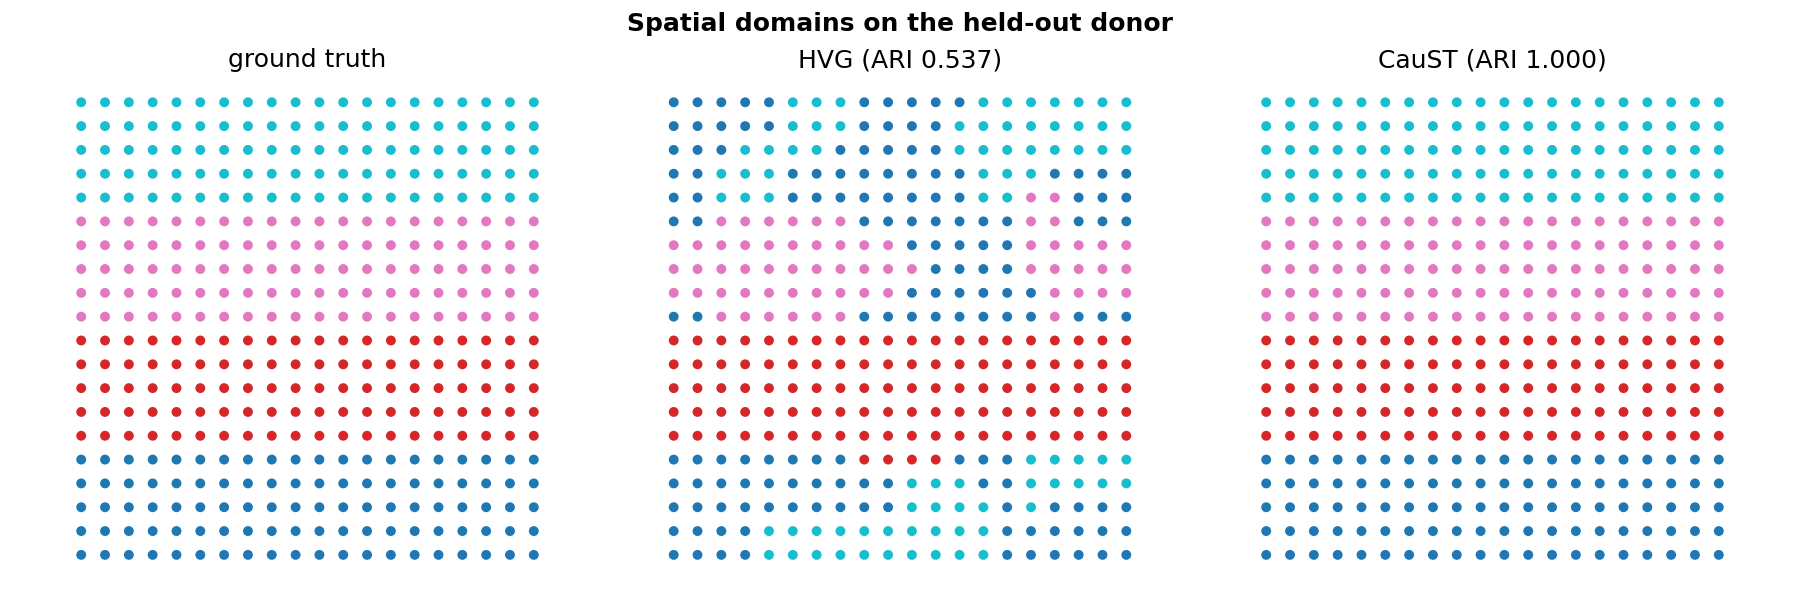
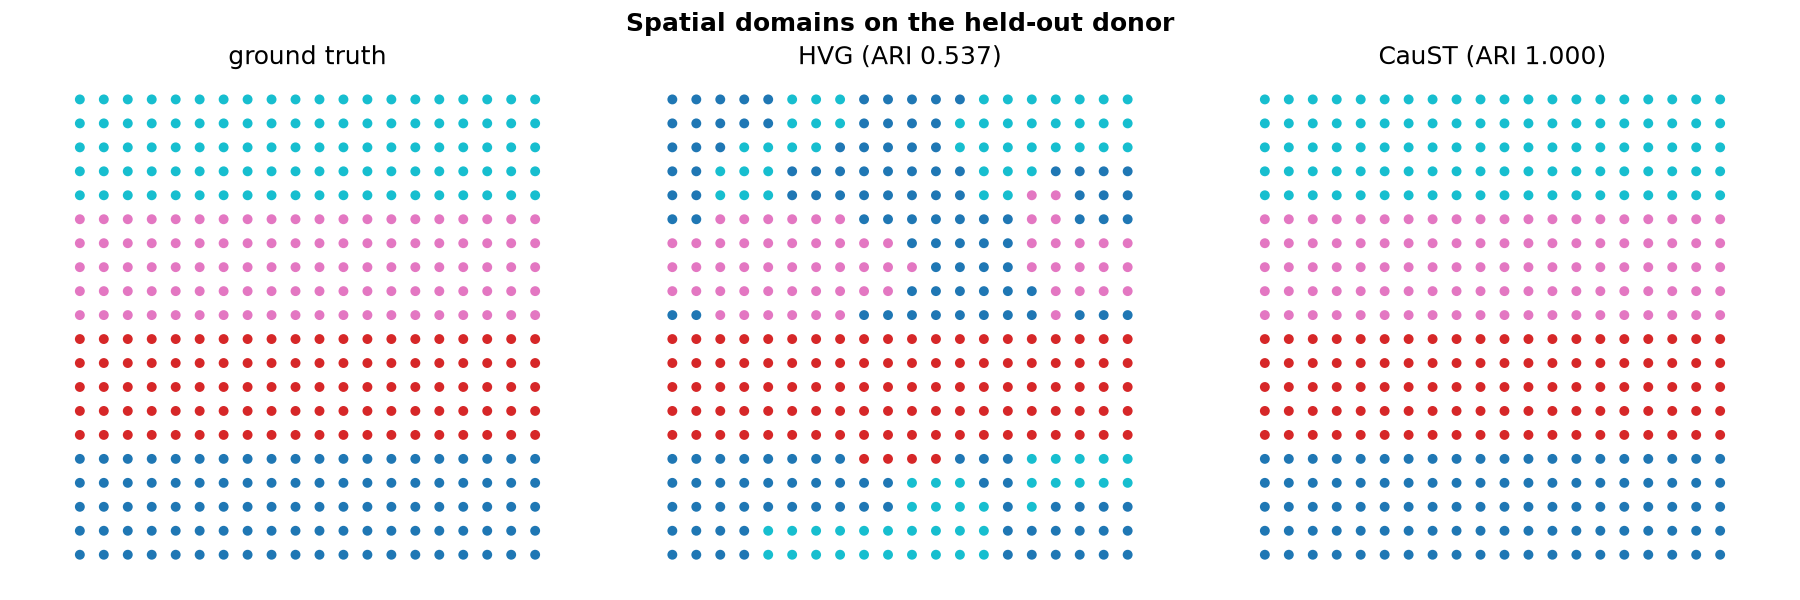
docs: add a five-minute guided demo
docs/demo.md walks a fresh clone through the whole project in five
copy-pasteable steps: uv sync, the in-silico knockout demo, the CauST vs
HVG benchmark on a held-out donor, caust verify on a recorded run, and the
quality gates. Every quoted number is the actual output of the committed
code, and the benchmark figures are regenerated to match. Wired into the
mkdocs nav as its own page.

diff --git a/docs/demo.md b/docs/demo.md
@@ -1,0 +1,128 @@
+# Five-minute demo
+
+A guided tour of CauST that runs end-to-end from a fresh clone. Total compute
+time is under two minutes on a laptop; the only prerequisite is
+[uv](https://docs.astral.sh/uv/getting-started/installation/).
+
+Every command below is copy-pasteable from the repository root.
+
+## 1. Setup — one command
+
+```bash
+git clone https://github.com/land-saas/CauSt.git && cd CauSt
+uv sync
+```
+
+`uv sync` reads the committed `uv.lock`, fetches the interpreter pinned in
+`.python-version` if it is missing, and builds `.venv` with the package and all
+dev tooling — the same locked environment CI and the Docker image use. There is
+nothing to activate; `uv run` handles that from here on.
+
+## 2. The idea, live
+
+```bash
+uv run scripts/demo.py
+```
+
+Three synthetic donors share eight `CAUSAL_*` genes that define the spatial
+domains in every donor. Each donor also has private `DONORNOISE_*` genes with
+**higher variance** but no cross-donor signal — exactly the trap that
+variance-based gene selection falls into.
+
+CauST silences each gene in-silico on a frozen spatial model, measures the
+embedding shift per donor, and keeps genes whose effect is large **and stable
+across donors**. Watch the ranking:
+
+```text
+Top-12 genes by invariance score:
+  CAUSAL_7         0.9758  <-- causal
+  CAUSAL_1         0.5160  <-- causal
+  ...
+  NOISE_13         0.1539
+
+Causal genes recovered in top-8: 8/8
+ARI on causal gene set (donor 0): 1.000
+```
+
+All eight causal genes rank above every noise gene, and clustering on just
+those eight recovers the ground-truth domains perfectly.
+
+## 3. The headline benchmark — CauST vs. HVG on a held-out donor
+
+```bash
+uv run scripts/benchmark.py --figures docs/figures
+```
+
+Genes are selected on donors 1–2 only; donor 3 is never seen during selection.
+That held-out donor is the robustness claim:
+
+```text
+Causal genes recovered in the top-8:
+  HVG    1/8
+  CauST  8/8
+
+Held-out donor 3 (never used for gene selection, 5 restarts):
+  ARI  all genes  (68 genes)  1.000 +/- 0.000
+  ARI  HVG        ( 8 genes)  0.537 +/- 0.133
+  ARI  CauST      ( 8 genes)  1.000 +/- 0.000
+```
+
+CauST matches the all-genes ceiling with **8× fewer genes**, while the
+variance baseline at the same budget loses ~0.46 ARI — and is unstable across
+clustering seeds (±0.133) where CauST is exactly stable (±0.000).
+
+The command also regenerates the two figures:
+
+![CauST vs HVG benchmark](figures/benchmark.png)
+
+Panels A and B are the crux: the invariance score isolates the causal genes,
+while variance ranks the donor-specific noise genes highest.
+
+![Spatial domains on the held-out donor](figures/domains.png)
+
+## 4. Every number is reproducible
+
+Each run writes a content-addressed directory under `results/` with the
+resolved config, the metrics, and a provenance manifest (git commit, package
+versions, platform, seed, BLAS thread counts, artifact checksums).
+
+```bash
+uv run caust verify results/synthetic_holdout-*/
+```
+
+```text
+REPRODUCED: results/synthetic_holdout-0759a2e2cbad matches a fresh run of its recorded config
+```
+
+And determinism is not an accident — two separate processes produce
+byte-identical artifacts (CI enforces this on every push):
+
+```bash
+make determinism
+```
+
+```text
+OK: artifacts are byte-identical across processes
+```
+
+See [REPRODUCIBILITY.md](https://github.com/land-saas/CauSt/blob/main/REPRODUCIBILITY.md)
+for what is controlled and how.
+
+## 5. Quality gates
+
+```bash
+make check
+```
+
+Runs ruff, mypy, and the 85-test suite with a 90% coverage gate (currently
+~97%), through the same locked environment. CI additionally proves the built
+sdist/wheel install and test cleanly on Python 3.9–3.12.
+
+## What you just saw
+
+- **A causal claim, tested honestly** — gene selection on training donors,
+  evaluation on a held-out donor, against the standard HVG baseline.
+- **One lockfile everywhere** — `uv.lock` backs local dev, CI, and Docker;
+  `uv sync` rebuilds the exact environment on any machine.
+- **Provenance by default** — every result carries the config, seed, and
+  environment that produced it, and `caust verify` re-earns it on demand.
